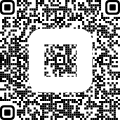
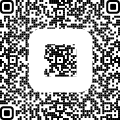
update

diff --git a/pages/ingerid.js b/pages/ingerid.js
@@ -1,31 +1,34 @@
+import styles from '../styles/LandingPage.module.css';
 import Container from "react-bootstrap/Container";
 import { card, Row, Col, Card } from "react-bootstrap";
 import Image from "next/image"
 
-
 const PostsPage = () => {
   
   return (
-    <>
-    <Container style={{marginTop:30}}>
+    <div style={{marginTop:70}}>
+    <Container >
           <Row> 
             <Col sm={4}>
-             <Image
-                src="/r-ii.jpg"
-                alt="writing"
-                width={200}
-                height={200}
-              />
+            <Card style={{ width: '18rem' }}>
+      <Card.Img variant="top" src="/image.jpeg" />
+      <Card.Body style={{backgroundColor:'#a19b7d'}}>
+        <Card.Title>Ingredients</Card.Title>
+        <Card.Text >
+        Vitamin E, Vitamin C, Zinc Oxide, Mineral Oil, Shea Butter, Hyaluronic Acid
+        </Card.Text>
+      </Card.Body>
+    </Card>
               </Col>
               <Col sm={3}>
-            <Card style={{fontSize:20, padding:40 ,backgroundColor:"rgb(216, 216, 216)"}}>
-            Vitamin E, Vitamin C, Zinc oxide, Mineral oil, shea butter, Hyaluronic acid  
-            </Card>
+            
             </Col>
           </Row>
 
     </Container>
-    </>
+    </div>
+
+    
   );
 };
 

diff --git a/pages/index.js b/pages/index.js
@@ -1,4 +1,3 @@
-import { useState } from 'react';
 import Image from 'next/image'
 import { Inter } from 'next/font/google'
 import Head from 'next/head';
@@ -29,10 +28,10 @@ export default function LandingPage() {
       </Head>
       <div className="content">
       <div className="banner">
-        R-II Skincare
+        R-II American Luxury Skincare
       </div>
       <header className={styles.header}>
-        <h1 className={styles.title}>American Luxury Skincare for all skin types, Luminous, Hydrating, Rejuvenating</h1>
+        <h1 className={styles.title}>Face, Eyes, Neck (3 in one, unisex) for all skin types, Luminous, Hydrating, Rejuvenating</h1>
       </header>
       <div className="image-container">
       <Image 
@@ -61,7 +60,7 @@ export default function LandingPage() {
           
           <div className={styles.top}>
             <div style={{padding: 20}}>
-              <a target="_blank" href="https://square.link/u/1LWX36D9?src=embed" 
+              <a target="_blank" href="https://square.link/u/Ac48BjlP?src=embed" 
               className={styles.buttom}>Buy now</a>
             </div>
         </div>

diff --git a/pages/contact.js b/pages/contact.js
@@ -34,7 +34,7 @@ const ContactForm = () => {
 
   return (
     <>
-    <Container id="contact" fluid="md" style={{marginTop:10, backgroundColor:"rgb(216, 216, 216)"}}>
+    <Container id="contact" fluid="md" style={{marginTop:50, backgroundColor:"#a19b7d"}}>
     <div className="section-title">
     <h2 style={{textAlign:'center'}}>Get In Touch</h2>
     <h6 style={{textAlign:'center'}}>

diff --git a/styles/LandingPage.module.css b/styles/LandingPage.module.css
@@ -5,7 +5,7 @@
   flex-direction: column;
   justify-content: center;
   align-items: center;
-  background-color: rgb(216, 216, 216);
+  background-color: #a19b7d;
   opacity: 1;
 }
 
@@ -19,7 +19,7 @@
 .title {
   margin: 10px;
   font-size: 2rem;
-  color: #373837;
+  color: #141414;
   font-family: Georgia, 'Times New Roman', Times, serif;
 }
 

diff --git a/styles/globals.css b/styles/globals.css
@@ -55,12 +55,12 @@ body {
   color: white;
 }
 .banner {
-  color: #373837;
+  color: rgb(18, 19, 18);
   padding: 5px;
   text-align: center;
   font-weight: bold;
   width: 100%;
-  margin-top:2rem;
+  margin-top:4rem;
   font-size: 3rem;
   font-family: Georgia, 'Times New Roman', Times, serif;
 }
